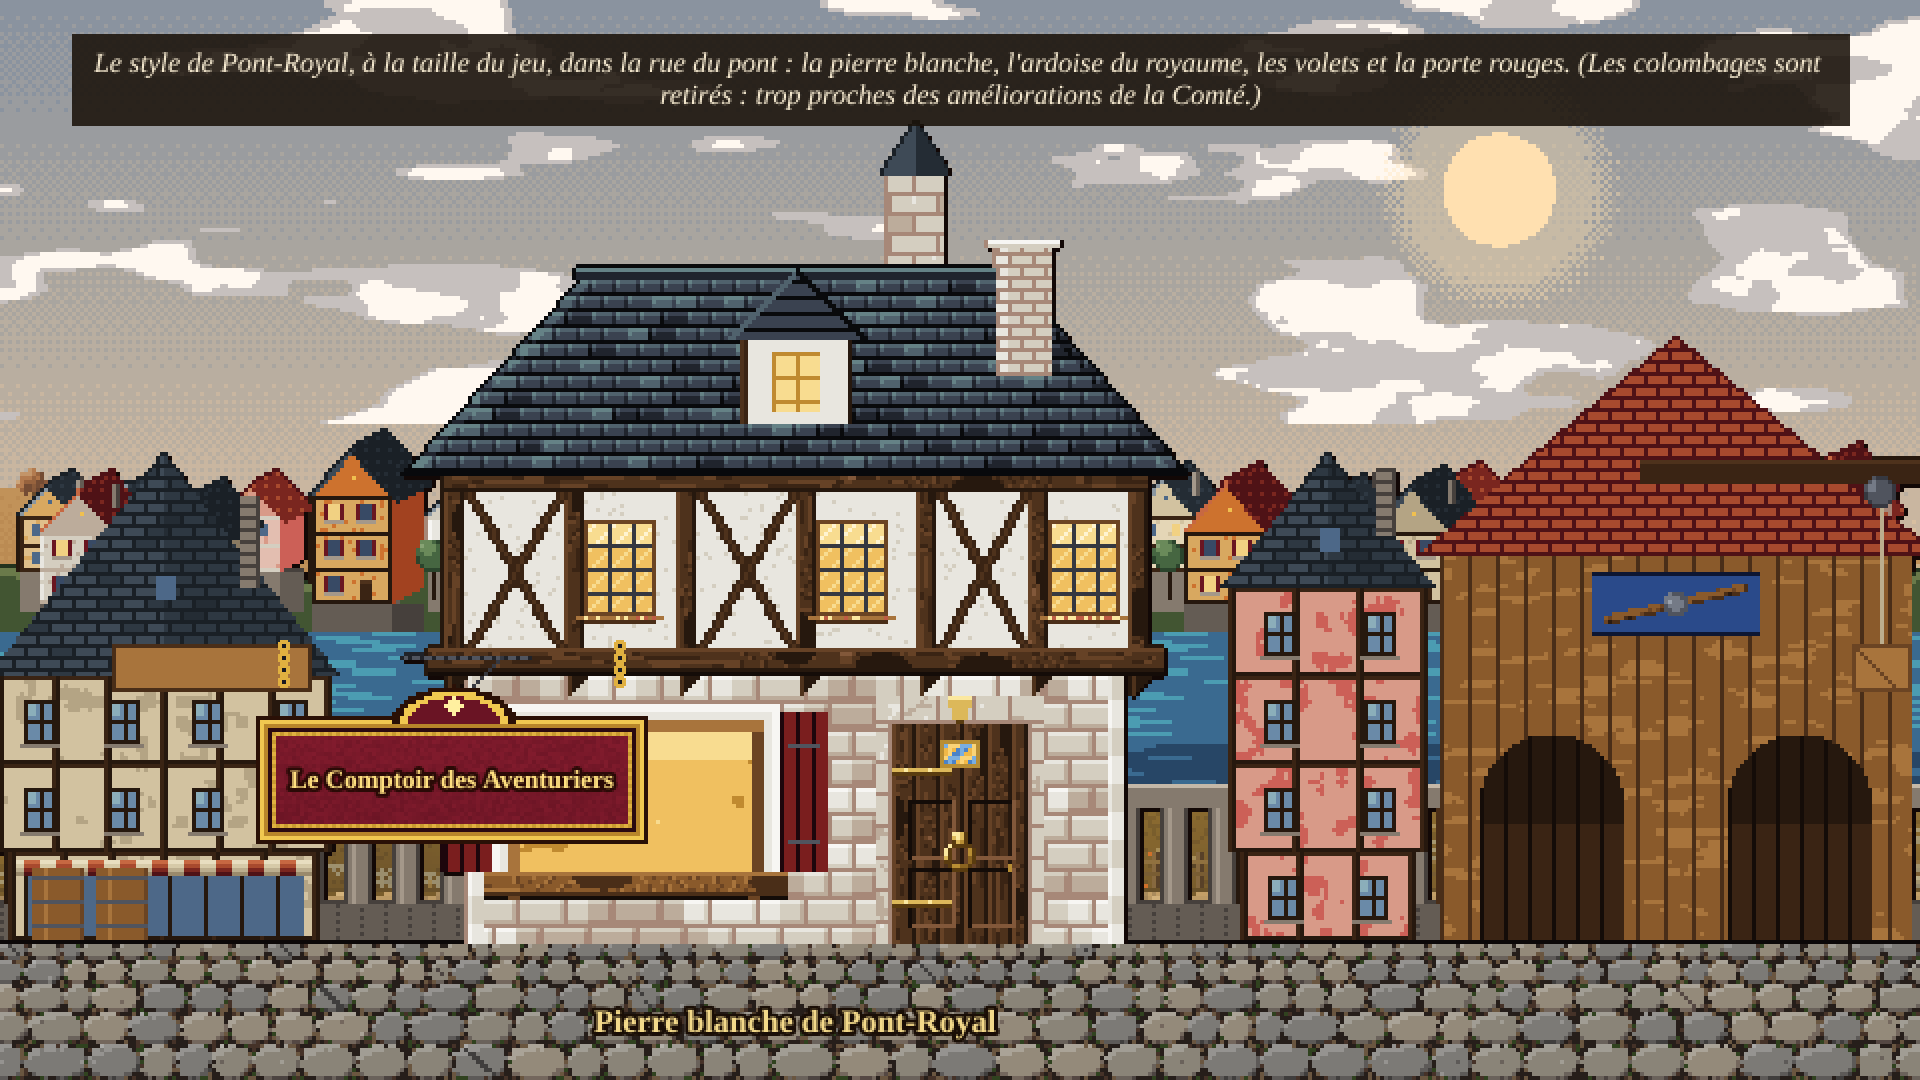
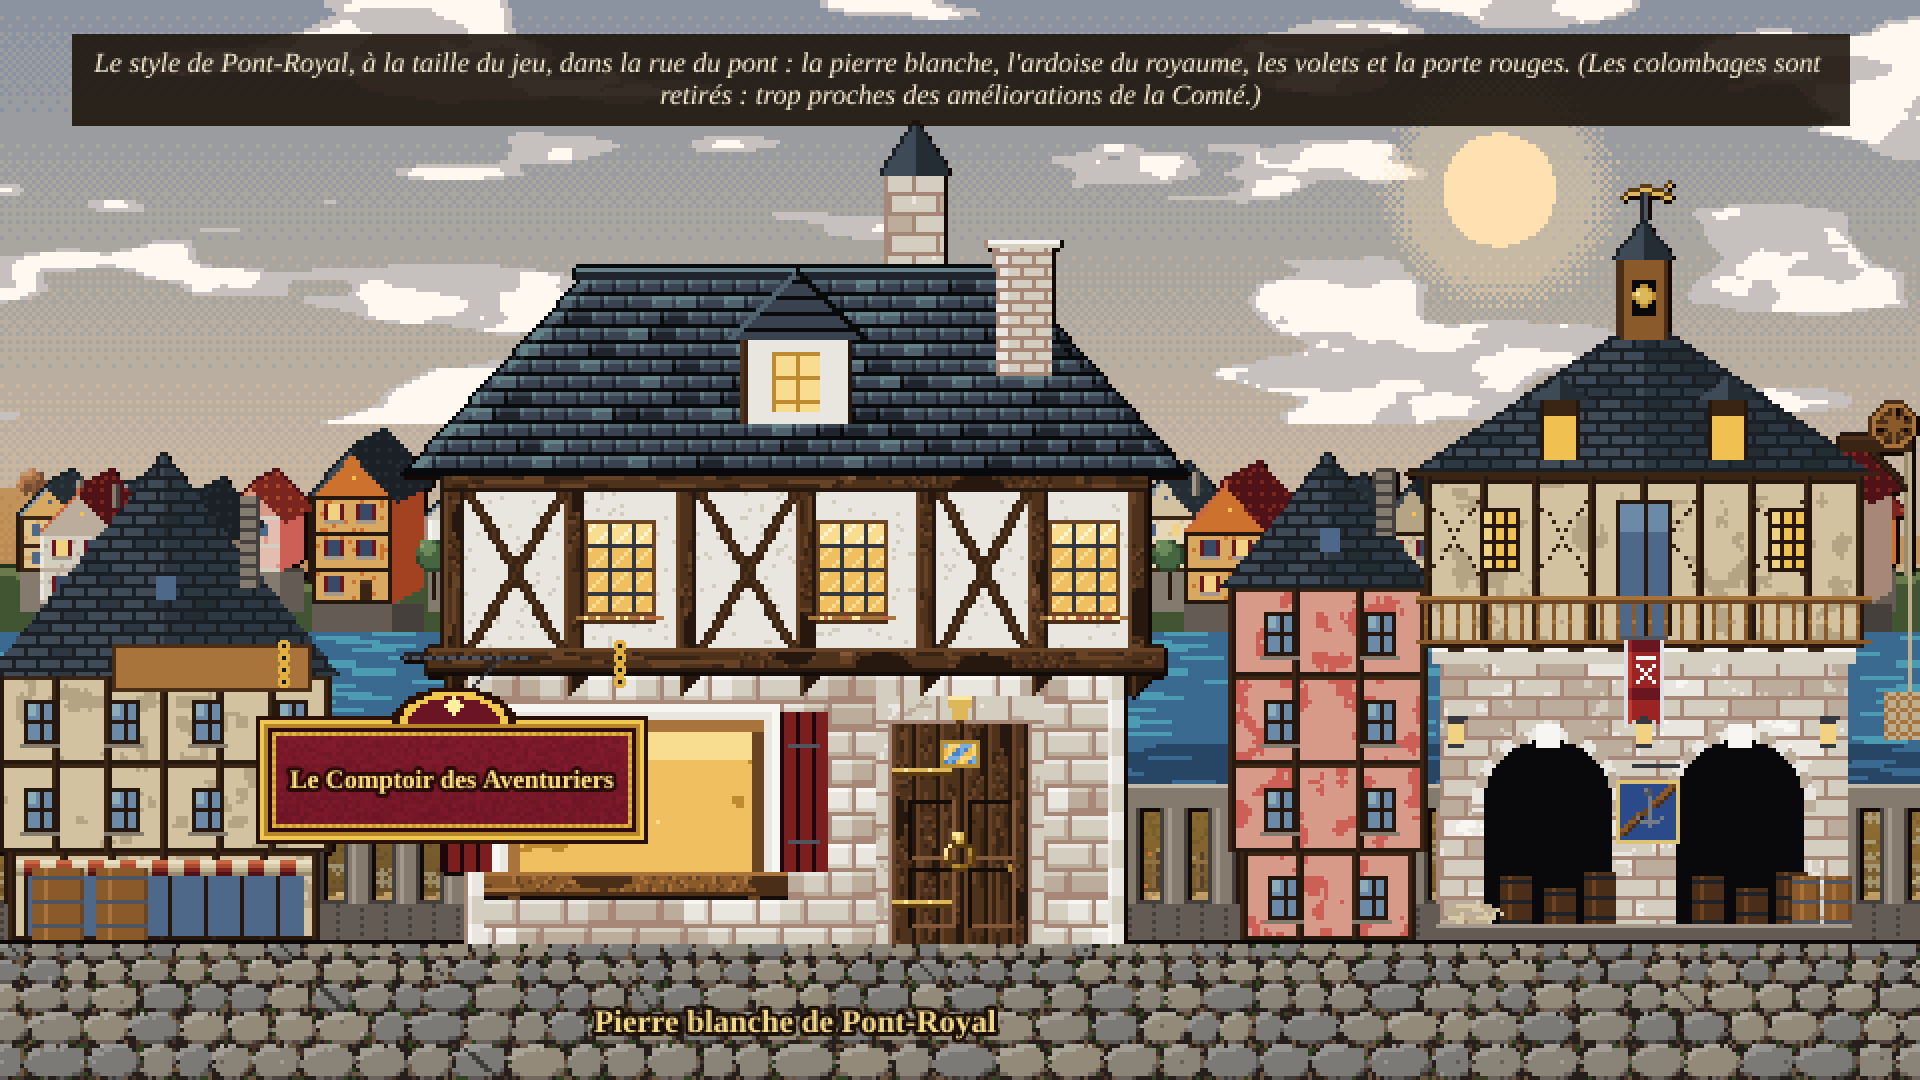
Planche 75 v2 : cheveux du duc raccordés de biais et de profil, moustache d'un seul côté de profil, Halle des Bateliers refaite, textes dans leurs cadres
Claude-Session: https://claude.ai/code/session_018kbaP56NxxNMUzmj9EfKBC

Changed region(s): [[0.7188, 0.1528, 1.0, 0.8861]]

diff --git a/src/corpsVueHD.js b/src/corpsVueHD.js
@@ -1174,8 +1174,9 @@ function dessinerCorpsVue(g, tenue = 1, costume = null, pas = 0, pose = null, vu
       if (costume === 'duc') {
         // (planche 75 v2) le duc : la moustache cirée, longue, aux pointes recourbées vers le haut, et une petite mouche
         const colle = (x, y, tol) => { for (let d = 0; d <= tol; d++) if (tete(x - d, y) || tete(x + d, y)) return true; return false; };
-        for (const cote of [-1, 1]) {
-          const long = lb + 2.2 * k;
+        const profilDuc = Math.abs(s) > 0.85, arriere = s > 0 ? -1 : 1;   // (de profil, on ne voit que le côté qui file vers la joue)
+        for (const cote of [-1, 1]) { if (profilDuc && cote !== arriere) continue;
+          const long = profilDuc ? lb + 1.2 * k : lb + 2.2 * k;
           for (let j = 0; j <= long; j++) { const x = Math.round(bx + cote * j), y = Math.round(by - 1.5 * k + j * 0.1); for (let e = 0; e < 2 * k - Math.floor(j / long * k); e++) if (colle(x, y + e, k)) t.poser(x, y + e, 'barbe', e < k * 0.6 ? 3 : 2); }
           const cxT = bx + cote * long, cyT = by - 2.6 * k, r = 1.3 * k;
           for (let a = 0; a <= Math.PI * 1.35; a += 0.12) { const x = Math.round(cxT + cote * Math.sin(a) * r), y = Math.round(cyT + Math.cos(a) * r); if (colle(x, y, k)) { t.poser(x, y, 'barbe', 3); t.poser(x, y + 1, 'barbe', 2); } }
@@ -1188,11 +1189,26 @@ function dessinerCorpsVue(g, tenue = 1, costume = null, pas = 0, pose = null, vu
         for (const cote of [-1, 1]) for (let j = 0; j < 3 * k; j++) { const x = Math.round(bx + cote * (lb + 3.2 * k + j * 0.25)), y = Math.round(by - 1 * k + j); if (t.mat(x, y) === 'peau') t.poser(x, y, 'peau', 2); }
         // les longues mèches fines, rejetées en arrière, qui tombent sur la fourrure (le front est dégarni)
         // (sous tous les angles : elles partent de derrière les oreilles et tombent jusque sur le col de fourrure)
-        if (!dos) for (const cote of [-1, 1]) { const u0 = cote * P.rx * 0.92, z0 = -P.rx * 0.5; if (Z(u0, z0) < -P.rx * 0.85) continue;
+        if (!dos && Math.abs(s) < 0.2) for (const cote of [-1, 1]) { const u0 = cote * P.rx * 0.92, z0 = -P.rx * 0.5; if (Z(u0, z0) < -P.rx * 0.85) continue;
           for (let m = 0; m < 4; m++) for (let y = cy - 2 * k; y < yT + 11 * k; y++) { const dy = Math.max(0, y - cy), u = u0 + cote * (m * 0.7 * k + dy * 0.06), z = z0 - m * 0.7 * k - dy * 0.05;
             const x = Math.round(X(u, z) + Math.sin(y / (3 * k) + m) * 0.5 * k);
             if (t.mat(x, y) === 'peau' && y < cy + P.ry && tete(x, y) && Z(u, z) > -P.rx * 0.2) continue;   // (jamais sur le visage)
             t.poser(x, y, 'cheveux', 2 + ((y + m) % 3 === 0 ? 1 : 0) - (m === 3 ? 1 : 0)); } }
+        // (de biais et de profil) une vraie masse de cheveux longs, qui part du crâne (sous la calotte, derrière
+        // l'oreille) et descend en s'élargissant jusque sur la fourrure, avec ses mèches
+        if (!dos && Math.abs(s) >= 0.2) {
+          const arr = s > 0 ? -1 : 1, zb = -P.rx * 0.75;
+          const bordArriere = y => { const dy = (y - cy) / P.ry; return X(0, zb) + arr * (P.rx * 0.55) * Math.sqrt(Math.max(0, 1 - Math.min(1, dy) ** 2 * 0.5)) + arr * Math.max(0, y - cy - P.ry) * 0.12; };
+          for (let y = Math.round(cy - P.ry * 0.55); y < yT + 12 * k; y++) {
+            const xb = bordArriere(y), larg = (y < cy ? 3.2 * k : 4.2 * k + (y - cy) * 0.05) * (0.8 + Math.abs(s) * 0.3);
+            for (let x = Math.round(Math.min(xb, xb - arr * larg)); x <= Math.max(xb, xb - arr * larg); x++) {
+              const m = t.mat(x, y); if (m === 'peau' && y < cy + P.ry * 0.9 && Math.abs(x + 0.5 - xb) > larg * 0.9) continue;
+              if (m === 'blanc' || m === 'pupille' || m === 'iris') continue;
+              if (y > yT + 12 * k - hachage(Math.floor(x / k), 3, 71) * 4 * k) continue;   // (les pointes, effilées, pas coupées net)
+              const meche = Math.floor((x + Math.round(y * 0.15 * arr)) / k) % 3;
+              t.poser(x, y, 'cheveux', meche === 0 ? 1 : meche === 1 ? 3 : 2 + (y > yT + 8 * k ? -1 : 0)); }
+          }
+        }
       } }
     else if (barbe) {
       const long = barbe === 'sage' ? yT + 11 * k : barbe === 'nain' ? yB - 2 * k : barbe === 'pleine' ? cy + P.ry + 4 * k : cy + P.ry + 1.5 * k;

diff --git a/docs/game-design.md b/docs/game-design.md
@@ -3276,3 +3276,5 @@ Idée du joueur : la couleur par sujet portée par des pierres précieuses sur l
   - **Corrigé** : le manteau du duc s'évase depuis les épaules de profil et de biais (plus de planche raide derrière lui), le col de fourrure épouse les épaules ; l'autre rive refaite (deux rangées de maisons, les plus loin plus pâles dans la brume, chacune avec ses fenêtres, son toit ombré, sa cheminée, des arbres) ; le style « Colombages du pont » retiré, seul reste « Pierre blanche de Pont-Royal », montré à la taille du jeu dans la rue du pont (docs/planches-v059/planche-75-v2-tableau-10-maison-pierre-blanche.png) ; les règles en grand (planche-75-v2-tableau-11-regles.png) ; le duc en trois vues (planche-75-v2-duc-trois-vues.png).
 - **Retour suivant (23/10)** : « pour le manteau du duc on y est », mais la barbe est mal placée de biais et de profil, et ses cheveux ne sont longs que de face ; les maisons du fond sont mieux placées mais toujours très moches.
   - **Corrigé** : la moustache devient une vraie moustache en guidon (une barre épaisse au-dessus de la bouche, des pointes cirées qui remontent), toujours collée au visage, sous les trois angles ; la mouche reste sur le menton ; le jabot, plus petit et cuivré, ne se confond plus avec une barbe ; les longues mèches partent de derrière les oreilles et tombent jusque sur le col de fourrure de face, de biais et de profil (docs/planches-v059/planche-75-v2-duc-visages.png, planche-75-v2-duc-trois-vues.png). Les maisons de l'autre rive sont redessinées en volume (`maisonLointaine` : façade à pignon face à nous, mur de côté qui fuit dans l'ombre, pan de toit de côté plus sombre, colombages, fenêtres encadrées à volets rouges, porte, cheminée, fondations jusqu'à la rive), deux rangées plus serrées, les plus lointaines dans la brume (planche-75-v2-tableau-8-rue-du-pont.png).
+- **Retour suivant (23/10)** : moustache de biais « très bien » ; plus de cheveux longs, mieux raccordés aux cheveux du crâne (« trop décousu ») de biais et de profil ; de profil, la moustache ne doit montrer qu'un côté ; « on ne touche plus à celui de face, il est top » ; la Halle des Bateliers est à refaire (design trop simple) ; toujours faire attention aux textes qui sortent des encadrés ; maisons du fond « bien mieux ».
+  - **Corrigé** : de biais et de profil, une vraie masse de cheveux longs part du crâne (sous la calotte, derrière l'oreille) et descend en s'élargissant jusque sur la fourrure, avec ses mèches et des pointes effilées (la vue de face est inchangée) ; de profil, la moustache ne montre que le côté qui file vers la joue. **La Halle des Bateliers refaite** (`dessinerHalle`) : arcade de pierre blanche à deux grandes arches ouvertes sur l'entrepôt (tonneaux, ballots), clés de voûte, lanternes de fer, bandeau sculpté et corbeaux ; étage à colombages en encorbellement avec fenêtres éclairées, porte-fenêtre et galerie de bois à balustres, la bannière du royaume ; grand toit d'ardoise à deux lucarnes, clocheton à cloche et girouette en poisson ; poutre de levage, grande roue, corde et caisse dans son filet ; enseigne sculptée (rame et ancre) ; cordage lové et tonneaux au pied. Textes : les cartes du tableau 1 agrandies (plus rien ne dépasse), le paragraphe ne touche plus la lettre, les rubriques du duc espacées.
